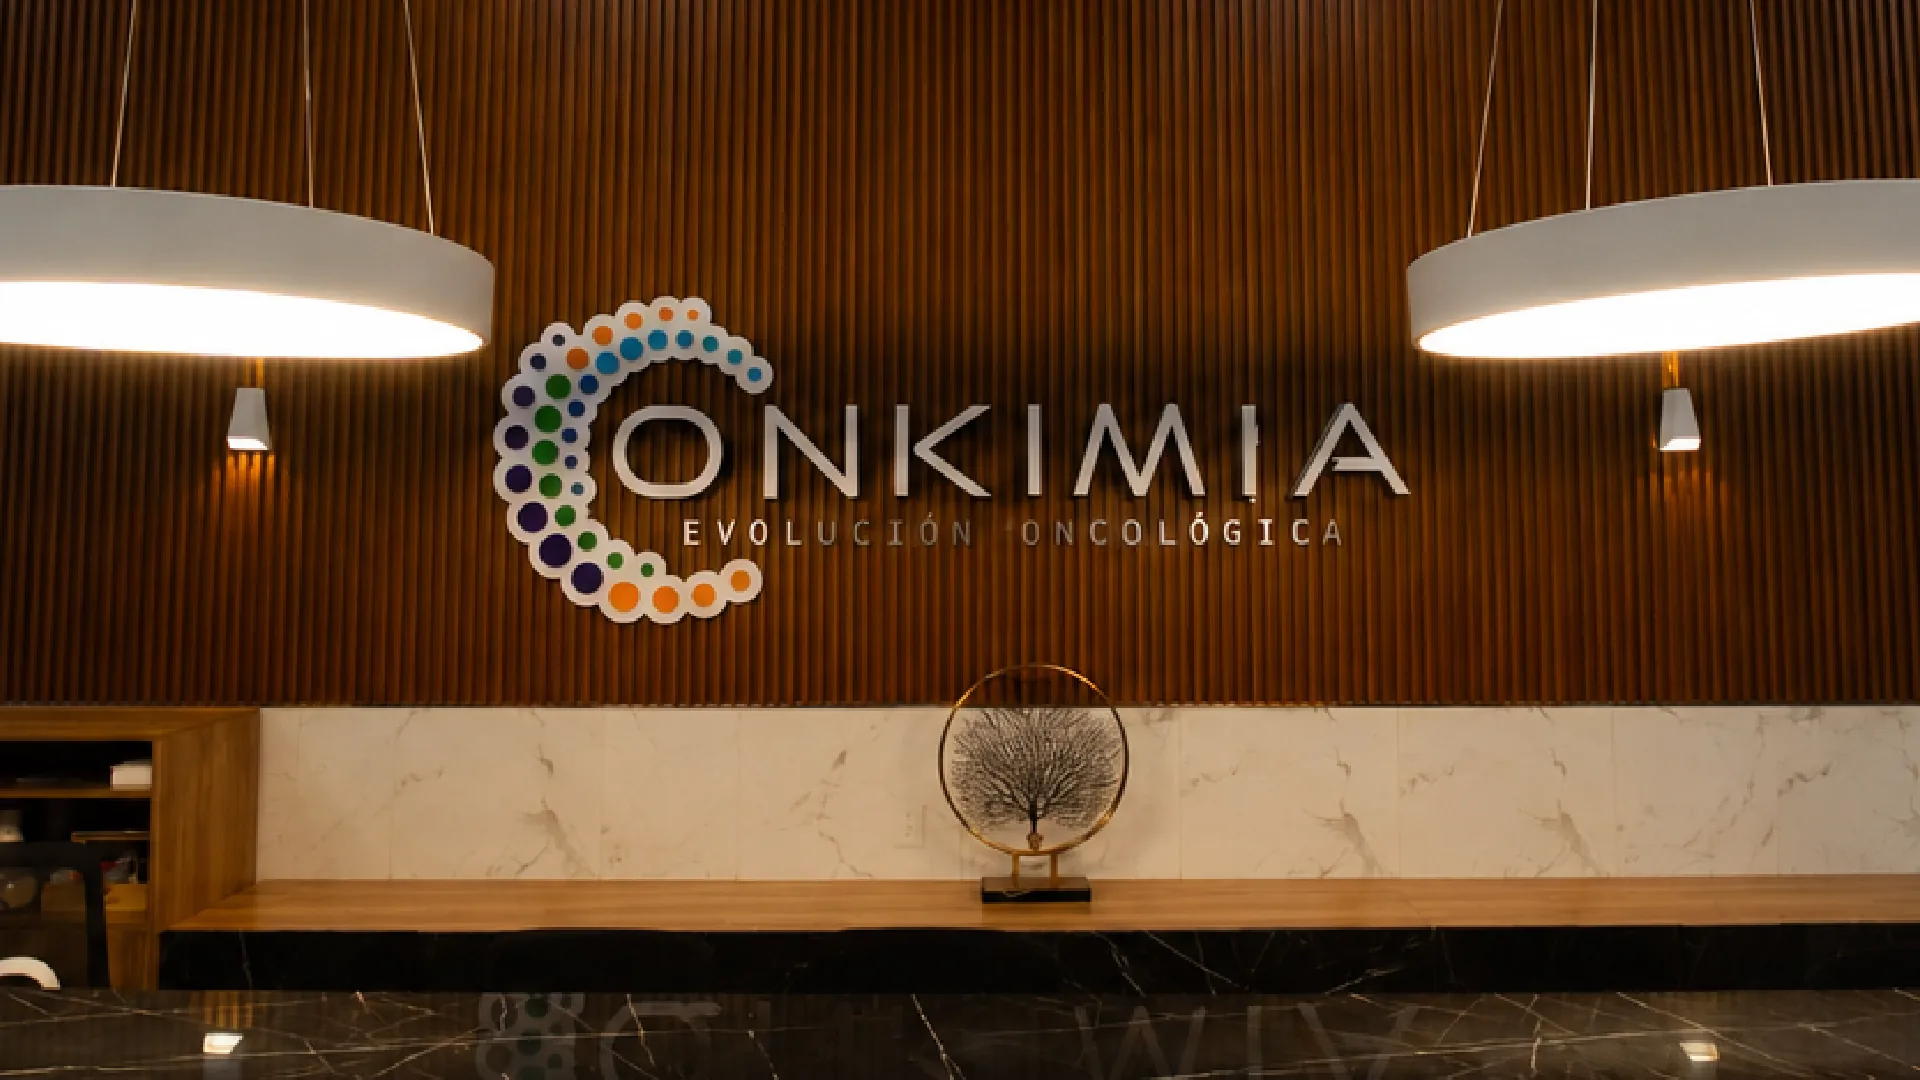
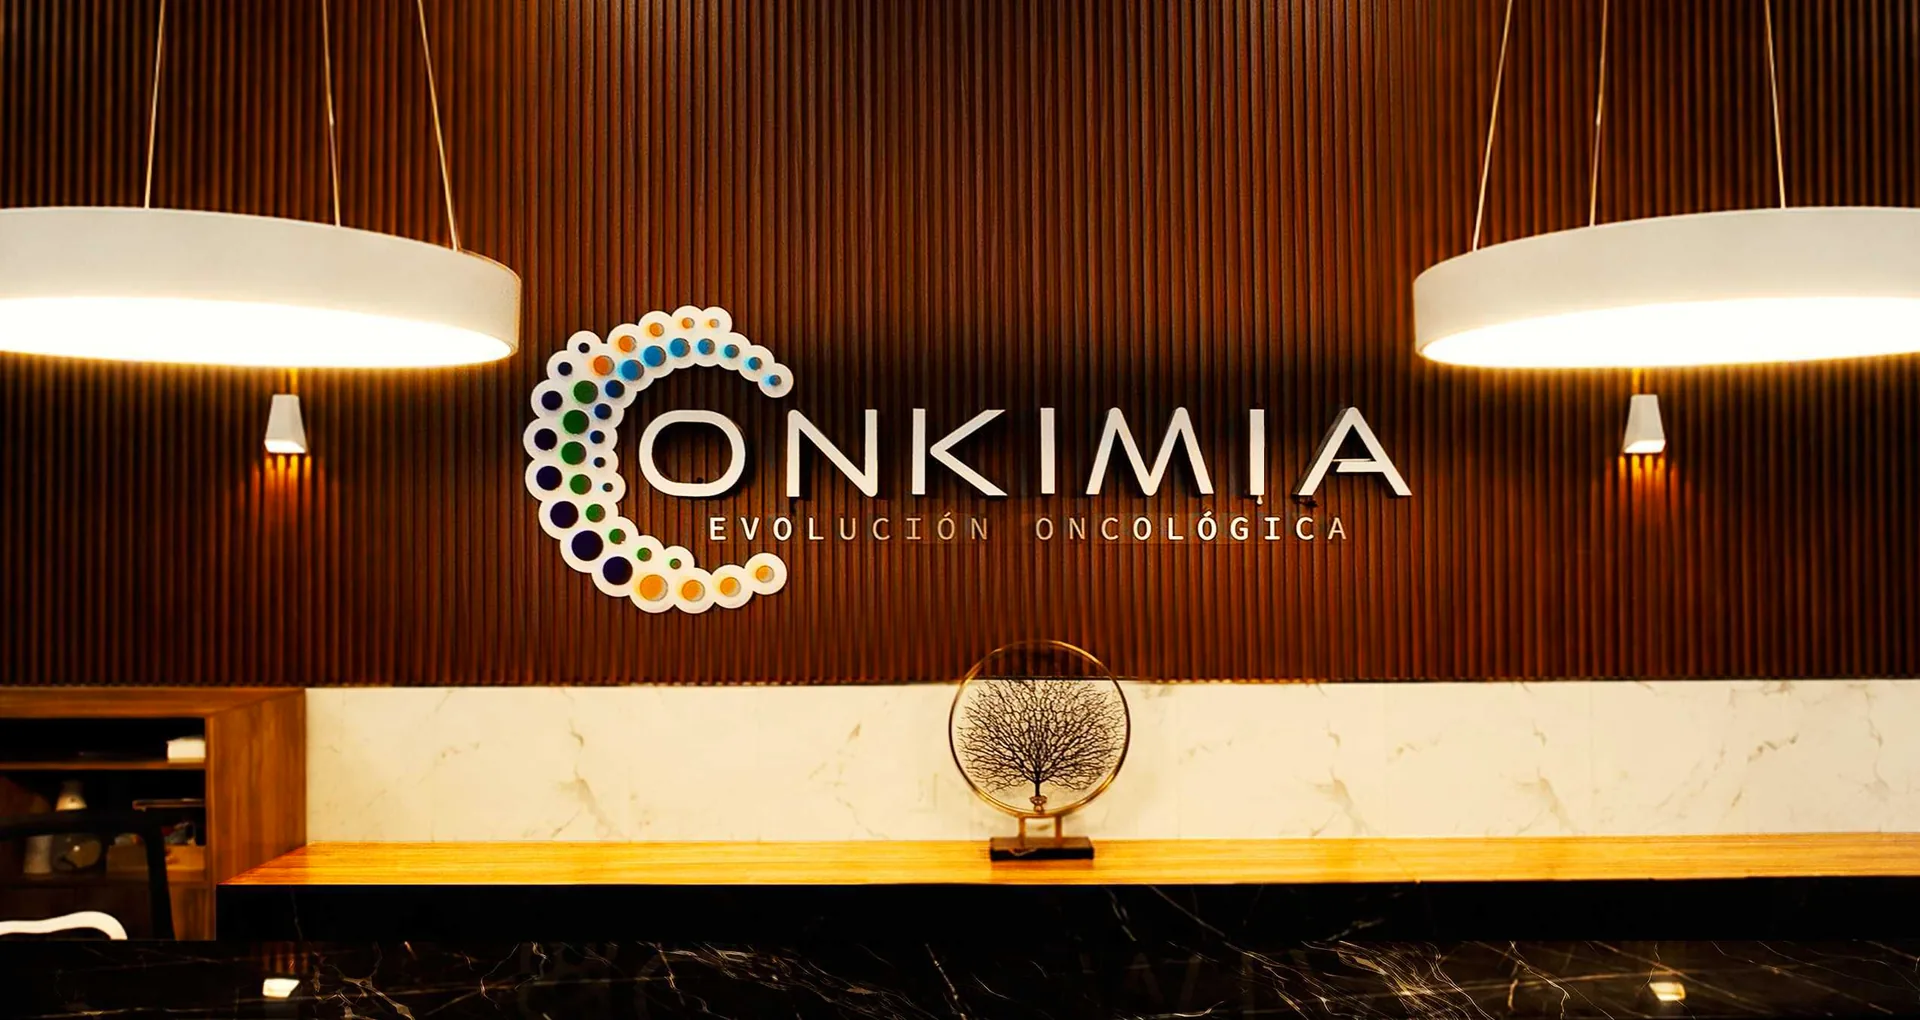
update image hero

diff --git a/src/components/sections/HeroHome.tsx b/src/components/sections/HeroHome.tsx
@@ -48,7 +48,7 @@ export function HeroHome({
           <source media="(max-width: 767px)" srcSet="/heros/hero-main-mobile.webp" />
           <img
             src="/heros/hero-main-1920.webp"
-            srcSet="/heros/hero-main-1170.webp 1170w, /heros/hero-main-1920.webp 1920w"
+            srcSet="/heros/hero-main-1170.webp 1170w, /heros/hero-main-1920.webp 1920w, /heros/hero-main-2547.webp 2547w"
             sizes="100vw"
             alt="Recepción de la clínica Onkimia con el logotipo Evolución Oncológica"
             className="w-full h-full object-cover object-center md:[object-position:62%_45%]"

diff --git a/src/components/sections/home/HeroSection.tsx b/src/components/sections/home/HeroSection.tsx
@@ -23,7 +23,7 @@ export async function HeroSection({}: SectionProps) {
         rel="preload"
         as="image"
         type="image/webp"
-        imageSrcSet="/heros/hero-main-1170.webp 1170w, /heros/hero-main-1920.webp 1920w"
+        imageSrcSet="/heros/hero-main-1170.webp 1170w, /heros/hero-main-1920.webp 1920w, /heros/hero-main-2547.webp 2547w"
         imageSizes="100vw"
         media="(min-width: 768px)"
         fetchPriority="high"
